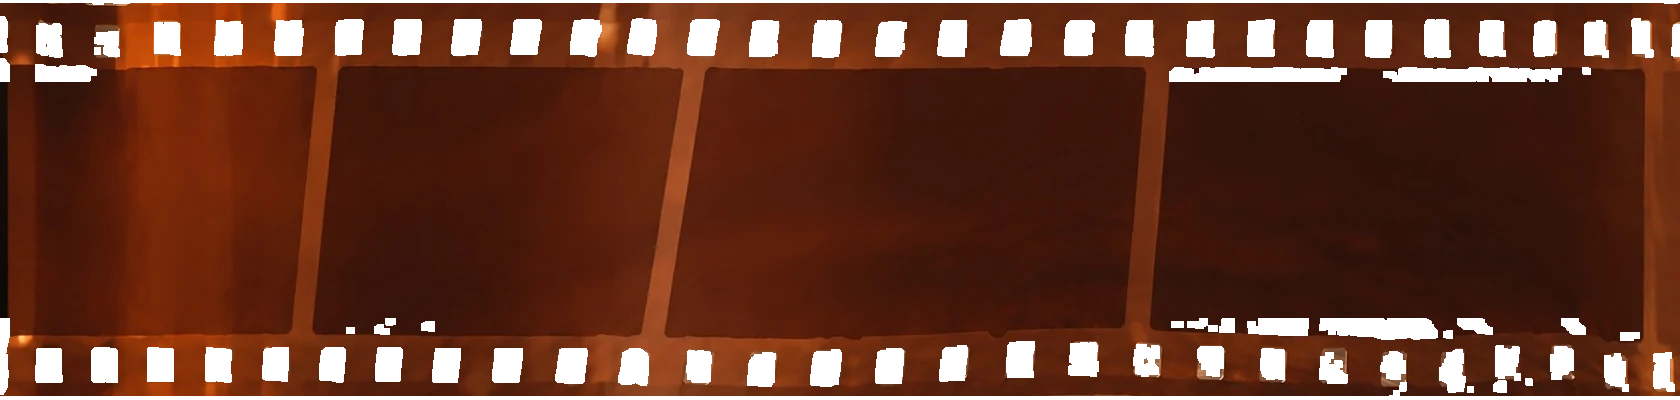
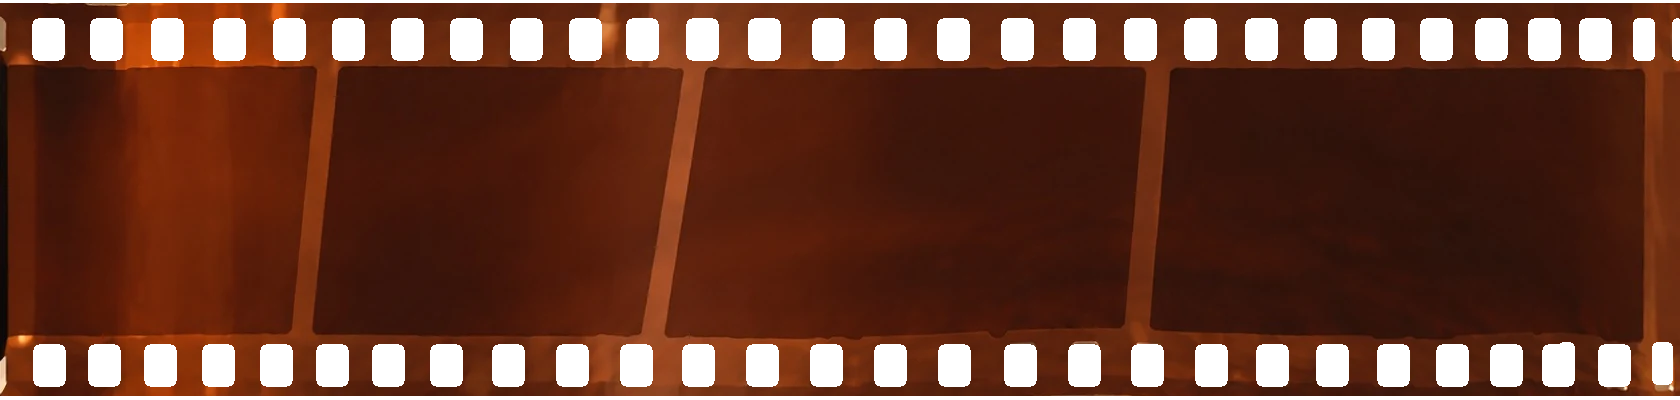
Pellicule : perforations redécoupées proprement (plus de jaune dans les angles)
Claude-Session: https://claude.ai/code/session_01LNnEt2br15qXtKZEzAMvTp

diff --git a/assets/js/pellicule.js b/assets/js/pellicule.js
@@ -19,7 +19,7 @@ var CX=520,CY=350,CW=1640,CH=830;
 var cx=cv.getContext("2d"),rx=rf.getContext("2d"),gx=gl.getContext("2d");
 var texImg=new Image(),posters=[],ld=0,texT,texC,started=false,vis=false,ready=false;
 function done(){if(++ld==N+1){build();ready=true;fit();if(vis)begin()}}
-texImg.onload=done;texImg.src="assets/img/pellicule-bande.webp";
+texImg.onload=done;texImg.src="assets/img/pellicule-bande.webp?v=2";
 FILMS.forEach(function(f,i){var im=new Image();im.onload=done;im.src=f.p;posters[i]=im});
 function mk(){var c=document.createElement("canvas");c.width=Math.ceil(L)+2;c.height=HF;return c}
 function build(){texT=mk();texC=mk();var a=texT.getContext("2d"),b=texC.getContext("2d");a.drawImage(texImg,0,0);b.drawImage(texImg,0,0);

diff --git a/index.html b/index.html
@@ -761,7 +761,7 @@ s.hidden=!1}();</script>
 <!-- L'agenda (à modifier dans agenda.txt), puis le script commun -->
 <script src="agenda.txt"></script>
 <script src="assets/js/site.js?v=6"></script>
-<script src="assets/js/pellicule.js?v=2"></script>
+<script src="assets/js/pellicule.js?v=3"></script>
 <script src="assets/js/opera.js?v=2"></script>
 <script>
 /* Hauteur du menu : la réglette se fige juste en dessous */
